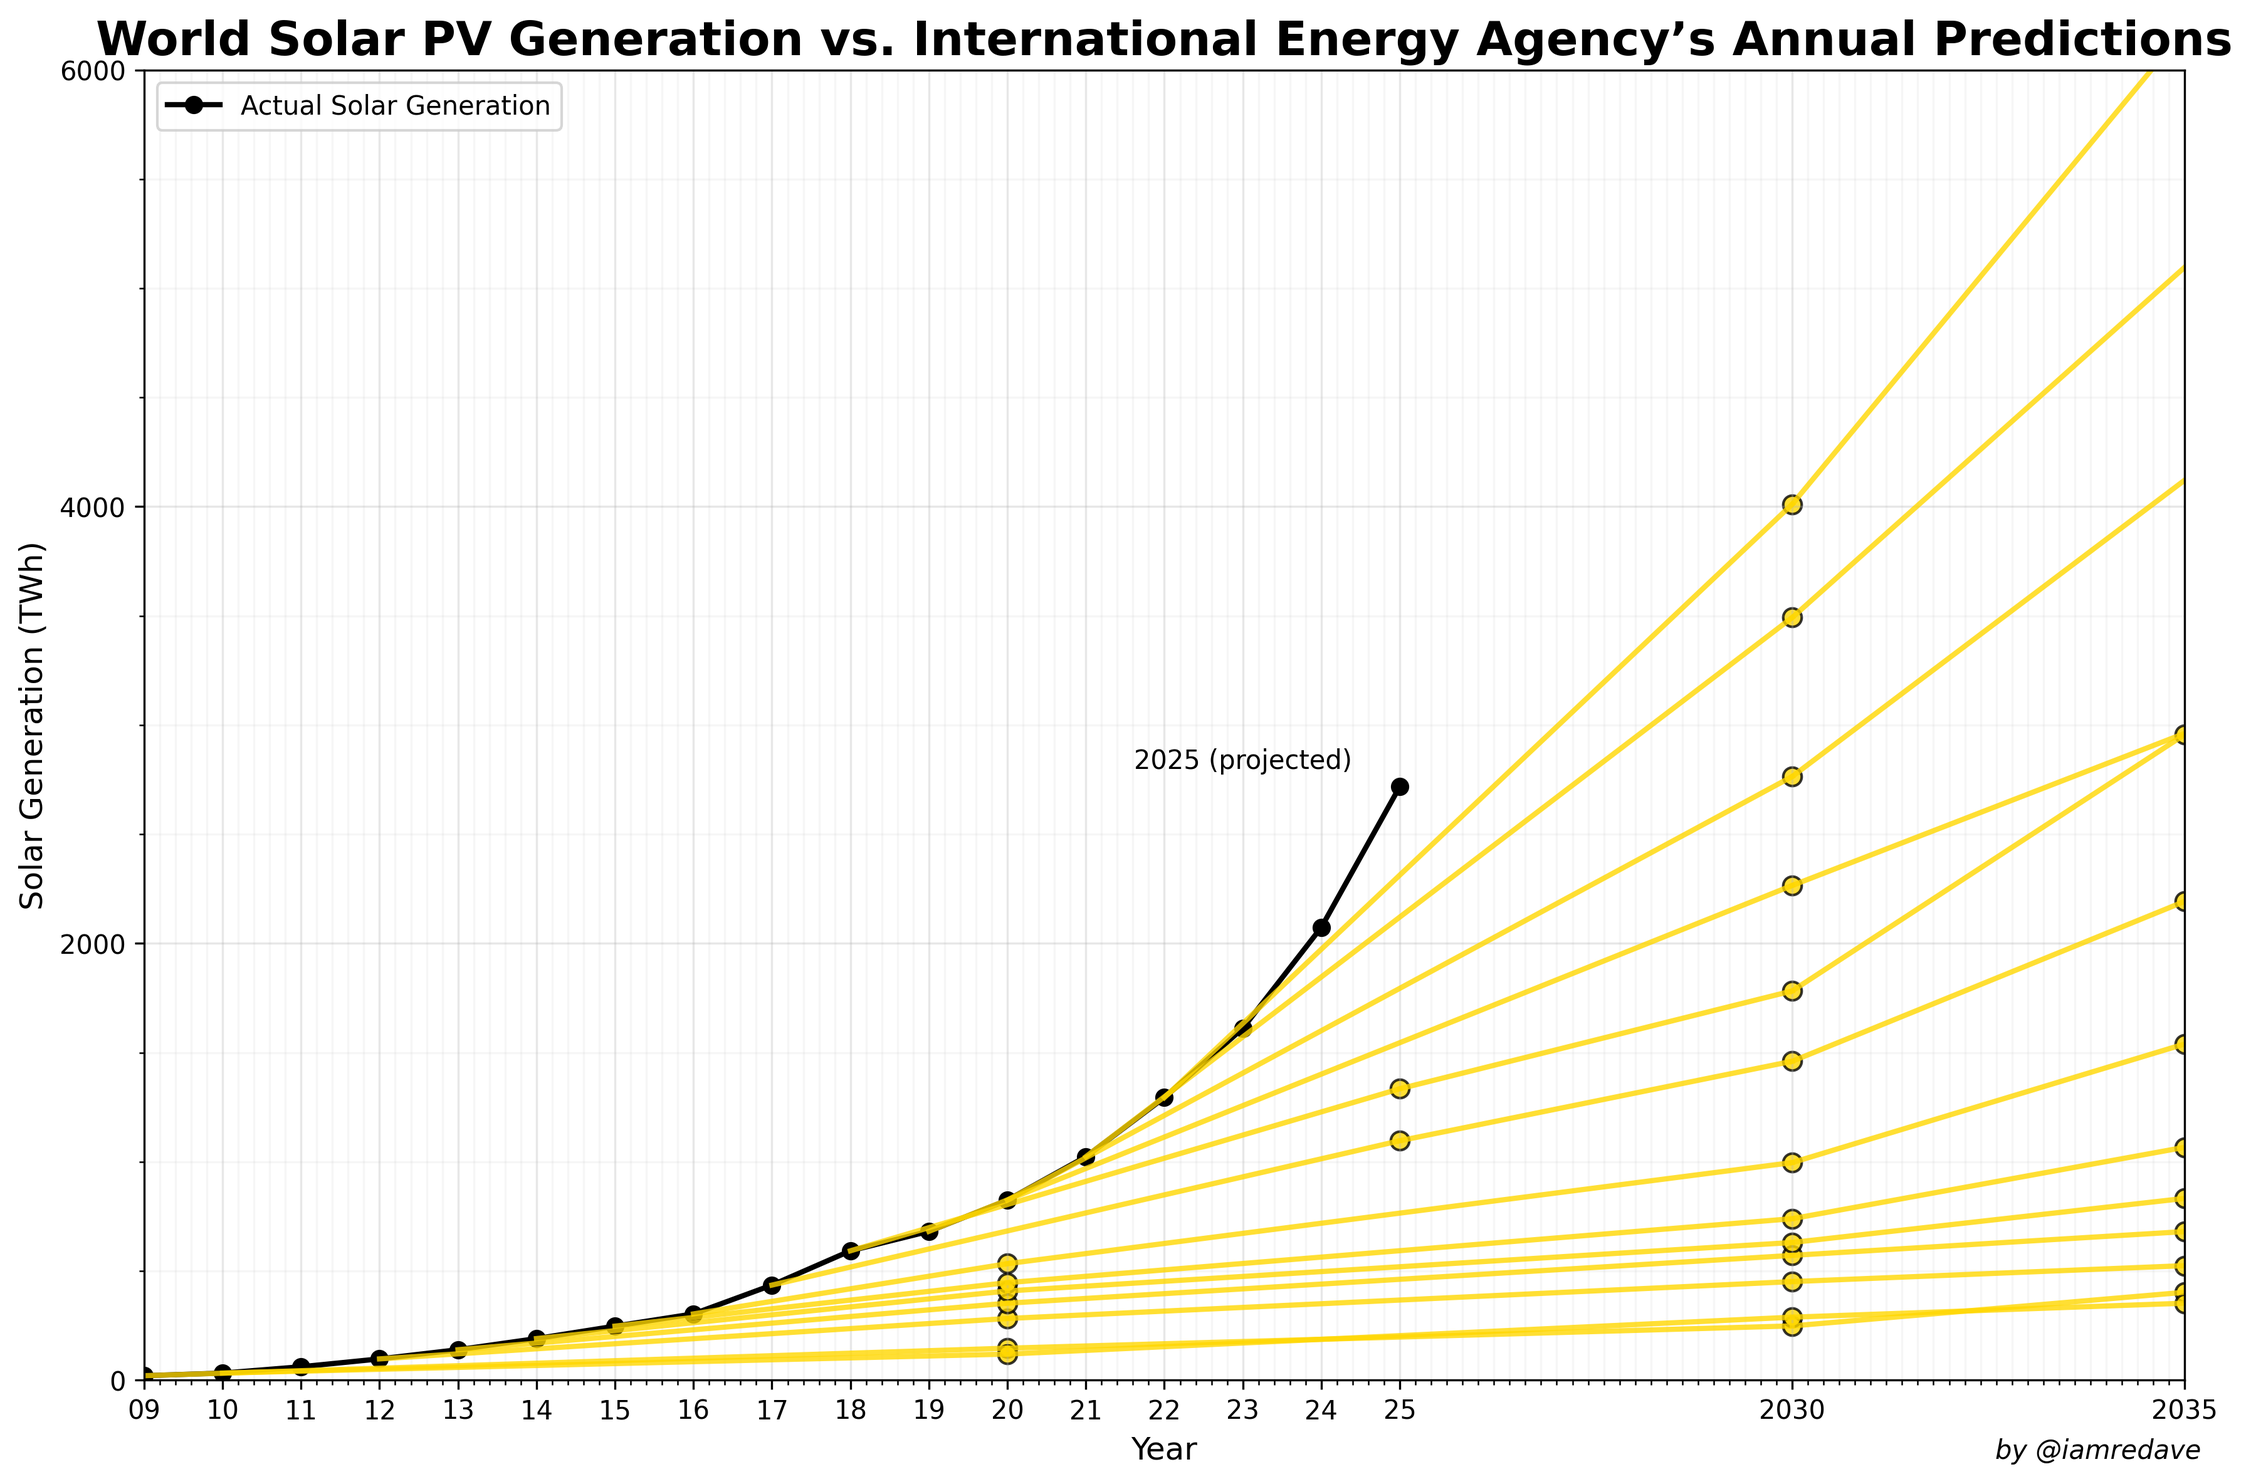
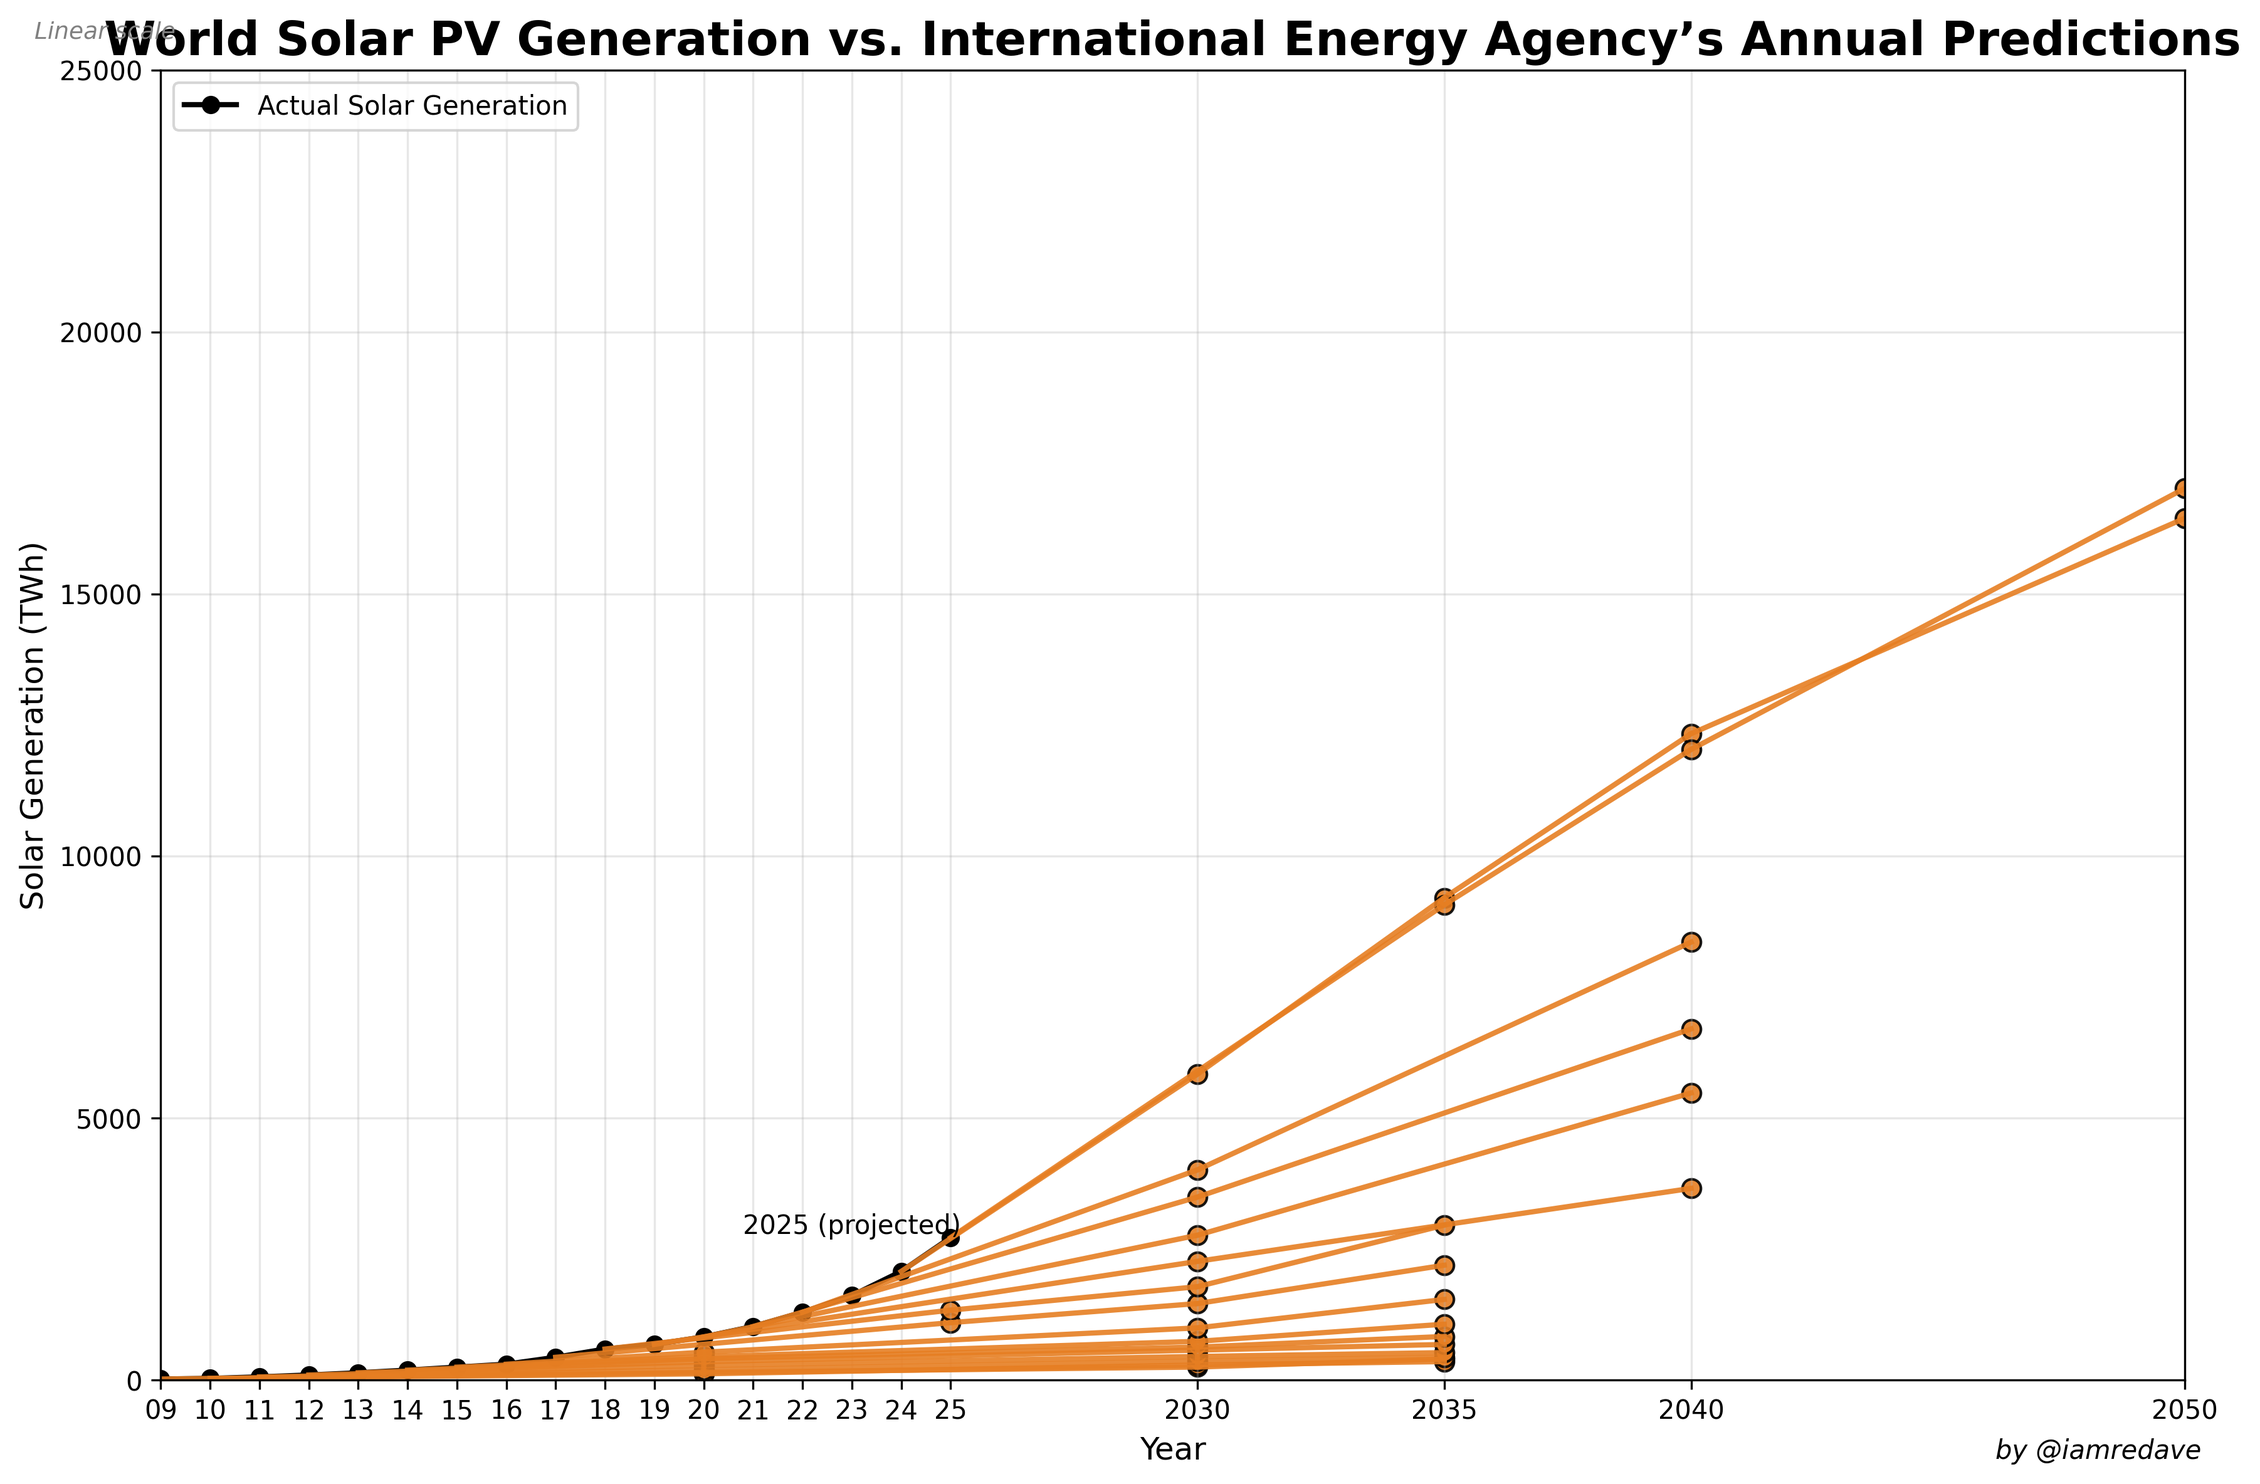
Use solar_report_filled.csv, add 2050, linear+log graphs, orange projections, CSV comparison doc
- plot_actual_solar.py: load solar_report_filled.csv, add 2050 column, paths from project root
- Save both linear and log versions; add scale labels; extend x-axis to 2050, y to 25k
- Projection color: vibrant orange (#E67E22) for better contrast
- logversion.py: docstring notes data file and columns
- Add CSV_comparison.md and solar_report_filled.csv

diff --git a/code/plot_actual_solar.py b/code/plot_actual_solar.py
@@ -9,9 +9,13 @@ from pathlib import Path
 
 def plot_actual_solar_with_projections():
     """Plot the actual solar generation observations with projection lines."""
-    
+    # Paths relative to project root (parent of code/)
+    project_root = Path(__file__).resolve().parent.parent
+    data_path = project_root / "solar_report_filled.csv"
+    graphs_dir = project_root / "graphs"
+
     # Load the data
-    df = pd.read_csv("solar.csv")
+    df = pd.read_csv(data_path)
     
     # Clean column names - strip all whitespace
     df.columns = df.columns.str.strip()
@@ -26,11 +30,14 @@ def plot_actual_solar_with_projections():
     print("Actual solar generation data:")
     print(actual_data[['Year', 'Actually got']])
     print("\nCur projection data:")
-    print(cur_data[['Year', '2020', '2025', '2030', '2035', '2040']])
+    print(cur_data[['Year', '2020', '2025', '2030', '2035', '2040', '2050']])
     
     # Create the plot
     plt.figure(figsize=(12, 8))
-    
+
+    # Projection line color: vibrant orange (good contrast, reads clearly)
+    proj_color = '#E67E22'  # rich orange; alternatives: '#D35400' (darker), '#F39C12' (lighter)
+
     # Plot the actual observations as a black line with markers
     plt.plot(actual_data['Year'], actual_data['Actually got'], 
              'ko-', linewidth=2, markersize=6, label='Actual Solar Generation')
@@ -44,8 +51,8 @@ def plot_actual_solar_with_projections():
         weo_year = row['Year']
         projections = []
         
-        # Collect all projection years and values (including 2040)
-        for year_col in ['2020', '2025', '2030', '2035', '2040']:  # Added back 2040
+        # Collect all projection years and values (including 2040 and 2050)
+        for year_col in ['2020', '2025', '2030', '2035', '2040', '2050']:
             if pd.notna(row[year_col]):
                 try:
                     value = float(row[year_col])
@@ -67,19 +74,19 @@ def plot_actual_solar_with_projections():
                 # Draw line from actual observation to first projection
                 if len(projections) > 0:
                     first_proj_year, first_proj_value = projections[0]
-                    plt.plot([actual_year, first_proj_year], [actual_data[actual_data['Year'] == actual_year]['Actually got'].iloc[0], first_proj_value], 
-                            color='gold', linewidth=2, alpha=0.8)
+                    plt.plot([actual_year, first_proj_year], [actual_data[actual_data['Year'] == actual_year]['Actually got'].iloc[0], first_proj_value],
+                            color=proj_color, linewidth=2, alpha=0.9)
                     
                     # Draw lines between subsequent projections
                     for i in range(len(projections) - 1):
                         year1, value1 = projections[i]
                         year2, value2 = projections[i + 1]
-                        plt.plot([year1, year2], [value1, value2], 
-                                color='gold', linewidth=2, alpha=0.8)
+                        plt.plot([year1, year2], [value1, value2],
+                                color=proj_color, linewidth=2, alpha=0.9)
                     
                     # Add markers for projection points
                     for year, value in projections:
-                        plt.scatter(year, value, color='gold', s=50, alpha=0.8, edgecolors='black', linewidth=1)
+                        plt.scatter(year, value, color=proj_color, s=50, alpha=0.9, edgecolors='black', linewidth=1)
 
     # Customize the plot
     plt.title('World Solar PV Generation vs. International Energy Agency’s Annual Predictions', fontsize=18, fontweight='bold')
@@ -88,24 +95,19 @@ def plot_actual_solar_with_projections():
     plt.grid(True, alpha=0.3)
     plt.legend(loc='upper left')
     
-    # Set x-axis limits to ensure all predictions are visible
-    plt.xlim(2009, 2035)  # Start at 2009, cut off at 2035
-    
-    # Get all years for x-axis (including 2040 but keeping x-axis range limited)
-    all_years = sorted(list(set(list(actual_data['Year']) + [2020, 2025, 2030, 2035])))  # Removed 2040 from ticks
+    # Set x-axis limits to show predictions through 2050
+    plt.xlim(2009, 2050)
+
+    # Build x-axis tick years from data and projection years
+    all_years = sorted(list(set(list(actual_data['Year']) + [2020, 2025, 2030, 2035, 2040, 2050])))
     plt.xticks(all_years)
-    
-    # Set y-axis limits for log scale - start at 10 TWh for better visibility
-    plt.ylim(bottom=10, top=10000)
-    
-    # Set y-axis to logarithmic scale (base 10)
-    plt.yscale('log')
-    
-    # Improve grid for log scale
-    plt.grid(True, alpha=0.3, which='major')
-    plt.minorticks_on()
-    plt.grid(True, alpha=0.1, which='minor')
-    
+
+    # Create graphs directory if it doesn't exist
+    graphs_dir.mkdir(exist_ok=True)
+
+    # --- Linear version ---
+    plt.ylim(bottom=0, top=25000)
+    plt.gca().set_yscale('linear')  # ensure linear (no log)
     # Customize x-axis labels to use abbreviated years
     x_ticks = plt.xticks()[0]
     x_labels = []
@@ -115,26 +117,35 @@ def plot_actual_solar_with_projections():
         else:
             x_labels.append(str(int(year))[-2:])  # Abbreviated for years < 2030
     plt.xticks(x_ticks, x_labels)
-    
-    # Set y-axis to show every second year to reduce crowding
-    y_ticks = plt.yticks()[0]  # Get current y-ticks
-    plt.yticks(y_ticks[::2])  # Show every second tick
-    
-    # Add attribution below the x-axis
     plt.figtext(0.98, 0.02, 'by @iamredave', ha='right', va='bottom', fontsize=10, style='italic')
-    
-    print(f"X-axis range: {plt.xlim()}")
-    print(f"X-axis ticks: {plt.xticks()}")
-    
-    # Adjust layout to accommodate legend
+    label_linear = plt.figtext(0.02, 0.98, 'Linear scale', ha='left', va='top', fontsize=9, style='italic', color='gray')
     plt.tight_layout()
-    
-    # Create graphs directory if it doesn't exist
-    Path("graphs").mkdir(exist_ok=True)
-    
-    # Save the plot
-    plt.savefig("graphs/solar_generation_with_projections.png", dpi=300, bbox_inches='tight')
-    print("Plot saved: graphs/solar_generation_with_projections.png")
+    plt.savefig(graphs_dir / "solar_generation_with_projections.png", dpi=300, bbox_inches='tight')
+    print("Plot saved (linear):", graphs_dir / "solar_generation_with_projections.png")
+
+    # --- Log version ---
+    plt.ylim(bottom=10, top=25000)
+    plt.yscale('log')
+    plt.grid(True, alpha=0.3, which='major')
+    plt.minorticks_on()
+    plt.grid(True, alpha=0.1, which='minor')
+    # Re-apply x-axis labels after scale change
+    x_ticks = plt.xticks()[0]
+    x_labels = []
+    for year in x_ticks:
+        if year >= 2030:
+            x_labels.append(str(int(year)))
+        else:
+            x_labels.append(str(int(year))[-2:])
+    plt.xticks(x_ticks, x_labels)
+    # Reduce y-axis tick crowding on log scale
+    y_ticks = plt.yticks()[0]
+    plt.yticks(y_ticks[::2])
+    label_linear.remove()  # so log version doesn't show "Linear scale"
+    plt.figtext(0.02, 0.98, 'Log scale', ha='left', va='top', fontsize=9, style='italic', color='gray')
+    plt.tight_layout()
+    plt.savefig(graphs_dir / "solar_generation_with_projectionsLog.png", dpi=300, bbox_inches='tight')
+    print("Plot saved (log):", graphs_dir / "solar_generation_with_projectionsLog.png")
     
     # Show the plot
     plt.show()

diff --git a/code/logversion.py b/code/logversion.py
@@ -1,7 +1,11 @@
 #!/usr/bin/env python3
 """
 Minimal changes to convert linear solar generation graph to logarithmic version.
-This file shows ONLY the changes needed from the original plot_actual_solar.py
+This file shows ONLY the changes needed from the original plot_actual_solar.py.
+
+NOTE: This is a reference snippet, not a runnable script (no figure context).
+The actual plotting is in plot_actual_solar.py, which reads solar_report_filled.csv
+and includes columns 2020, 2025, 2030, 2035, 2040, 2050.
 """
 
 # ORIGINAL CODE (from plot_actual_solar.py):

diff --git a/CSV_comparison.md b/CSV_comparison.md
@@ -1,0 +1,107 @@
+# Comparison: solar.csv vs solar_report_filled.csv
+
+## 1. Are 2023, 2024, 2025 predictions in the data?
+
+**solar.csv**
+
+| Year | Predictions in year columns (2020–2040)                                 | Actually got  |
+| ---- | ----------------------------------------------------------------------- | ------------- |
+| 2023 | Yes (cur: 2030=5405, 2040=11961; Sus: 2030=6390, 2035=8657, 2040=15296) | Yes (1611.10) |
+| 2024 | **No** — all prediction columns empty                                   | Yes (2073.25) |
+| 2025 | **No** — all prediction columns empty                                   | Yes (2718)    |
+
+So in **solar.csv**, only **2023** has prediction values in the year columns; 2024 and 2025 have only "Actually got" filled.
+
+**solar_report_filled.csv**
+
+| Year | Predictions in year columns (2020–2050)    | Actually got  |
+| ---- | ------------------------------------------ | ------------- |
+| 2023 | Yes (cur and sus, 2030/2035/2040/2050)     | Yes (1611.1)  |
+| 2024 | Yes (cur and sus, 2030/2035/2040/2050)     | Yes (2073.25) |
+| 2025 | Yes (cur only: 2035/2040/2050; 2030 empty) | Yes (2718)    |
+
+So the **2023, 2024, and 2025 predictions you tried to load are present in solar_report_filled.csv**. In **solar.csv** they are only partly there (2023 yes, 2024 and 2025 prediction columns empty).
+
+---
+
+## 2. Do the two CSVs agree in other locations?
+
+**Structure**
+
+- **solar.csv**: 8 columns — `pol`, `Year`, `2020`, `2025`, `2030`, `2035`, `2040`, `Actually got`. No 2050.
+- **solar_report_filled.csv**: 9 columns — same plus **2050** before `Actually got`. So the "filled" file has an extra prediction year.
+
+**2023 predictions (where both have values)**
+
+- **cur 2023**
+  - solar.csv: 2030 = 5405, 2040 = 11961 (2035 blank).
+  - solar_report_filled.csv: 2030 = 4699, 2035 = 7174, 2040 = 9500, 2050 = 12639.
+  So **2030 and 2040 do not match** (5405 vs 4699, 11961 vs 9500).
+- **sus/Sus 2023**
+  - solar.csv: 2030 = 6390, 2035 = 8657, 2040 = 15296.
+  - solar_report_filled.csv: 2030 = 5377, 2035 = 8648, 2040 = 11787, 2050 = 16041.
+  Again **2030 and 2040 differ**; 2035 is close (8657 vs 8648).
+
+So the two files **do not agree** on 2023 prediction values; the filled file appears to use a different set of numbers (or a different source) for 2023.
+
+**Earlier years (2009–2022)**
+
+- Same rows (pol + Year) and same numeric values; only difference is formatting (integers in solar.csv vs floats like `146.0` in solar_report_filled.csv). So they **agree** on content for those years.
+
+**"Actually got"**
+
+- 2023: 1611.10 vs 1611.1 (same).
+- 2024: 2073.25 in both.
+- 2025: 2718 in both.
+So **Actually got** is consistent.
+
+---
+
+## 3. Other oddities in the data
+
+**solar.csv**
+
+- **pol typo**: row 5 has `curr` instead of `cur` (year 2011).
+- **Inconsistent pol spacing/casing**: `cur` (with trailing space), `Sus` vs `cur`; "450" appears with no trailing space.
+- **Header spacing**: `pol` and `Year` have trailing spaces.
+- **2024/2025**: Only `cur` rows exist; no Sus/sus rows for 2024 or 2025 (same as in filled).
+
+**solar_report_filled.csv**
+
+- **pol normalized**: `cur` and `sus` (lowercase, no trailing spaces); "450" unchanged. So `curr` is effectively fixed to `cur`.
+- **2025**: Only `cur` has a row; **no sus row for 2025** (same as solar.csv).
+- **2025 cur**: 2030 is empty while 2035, 2040, 2050 are filled — so 2025 predictions are incomplete for the first target year.
+- **Trailing blank line**: line 33 is empty.
+- **Float formatting**: all numerics as `.0` floats (e.g. 146.0, 248.0).
+
+**Both**
+
+- 2024 and 2025 have only `cur` (no sus) in both files.
+- "450" vs "cur/sus": two series (450 and cur/sus) with different coverage (e.g. "450" has no "Actually got" values).
+
+---
+
+## Summary
+
+| Question                              | Answer                                                                                                                                   |
+| ------------------------------------- | ---------------------------------------------------------------------------------------------------------------------------------------- |
+| Are 2023/2024/2025 predictions there? | **solar_report_filled.csv**: yes (2023–2025). **solar.csv**: only 2023; 2024 and 2025 prediction columns are empty.                      |
+| Do the CSVs agree elsewhere?          | **No** for 2023 prediction values (different numbers). **Yes** for 2009–2022 and for "Actually got" (formatting differs: int vs float).   |
+| Oddities                              | pol typo/spacing in solar.csv; no 2050 in solar.csv; no sus 2025 in either; 2025 cur 2030 empty in filled; trailing blank line in filled.  |
+
+---
+
+## Recommended actions
+
+1. **Source of truth**
+   - Treat **solar_report_filled.csv** as the canonical dataset if you want 2023–2025 predictions in the year columns and a 2050 column. Use **solar.csv** if you want to keep the original 2023 numbers (5405 / 11961 for cur, etc.) and no 2050.
+
+2. **Backfill 2024 and 2025 into solar.csv (optional)**
+   - If solar.csv should match the filled file for 2024/2025, copy the prediction values from solar_report_filled.csv for cur 2024, cur 2025 (and sus 2024 if you add that row) into solar.csv. Add a 2050 column to solar.csv if you want structural parity.
+
+3. **Align 2023 if you want one consistent set**
+   - Decide which 2023 predictions are correct (solar.csv’s 5405/11961 vs filled’s 4699/9500 for cur, and similarly for sus). Then either overwrite 2023 in solar_report_filled.csv with solar.csv’s values, or overwrite 2023 in solar.csv with solar_report_filled.csv’s values, and use that file as the single source.
+
+4. **Clean-up**
+   - In solar.csv: fix `curr` → `cur`, trim trailing spaces in `pol` and `Year` headers, and normalize `Sus` to `sus` (or `cur`/`Sus` consistently) if you care about consistency.
+   - In solar_report_filled.csv: remove the trailing blank line (line 33); optionally fill 2025 cur 2030 if you have a value.
